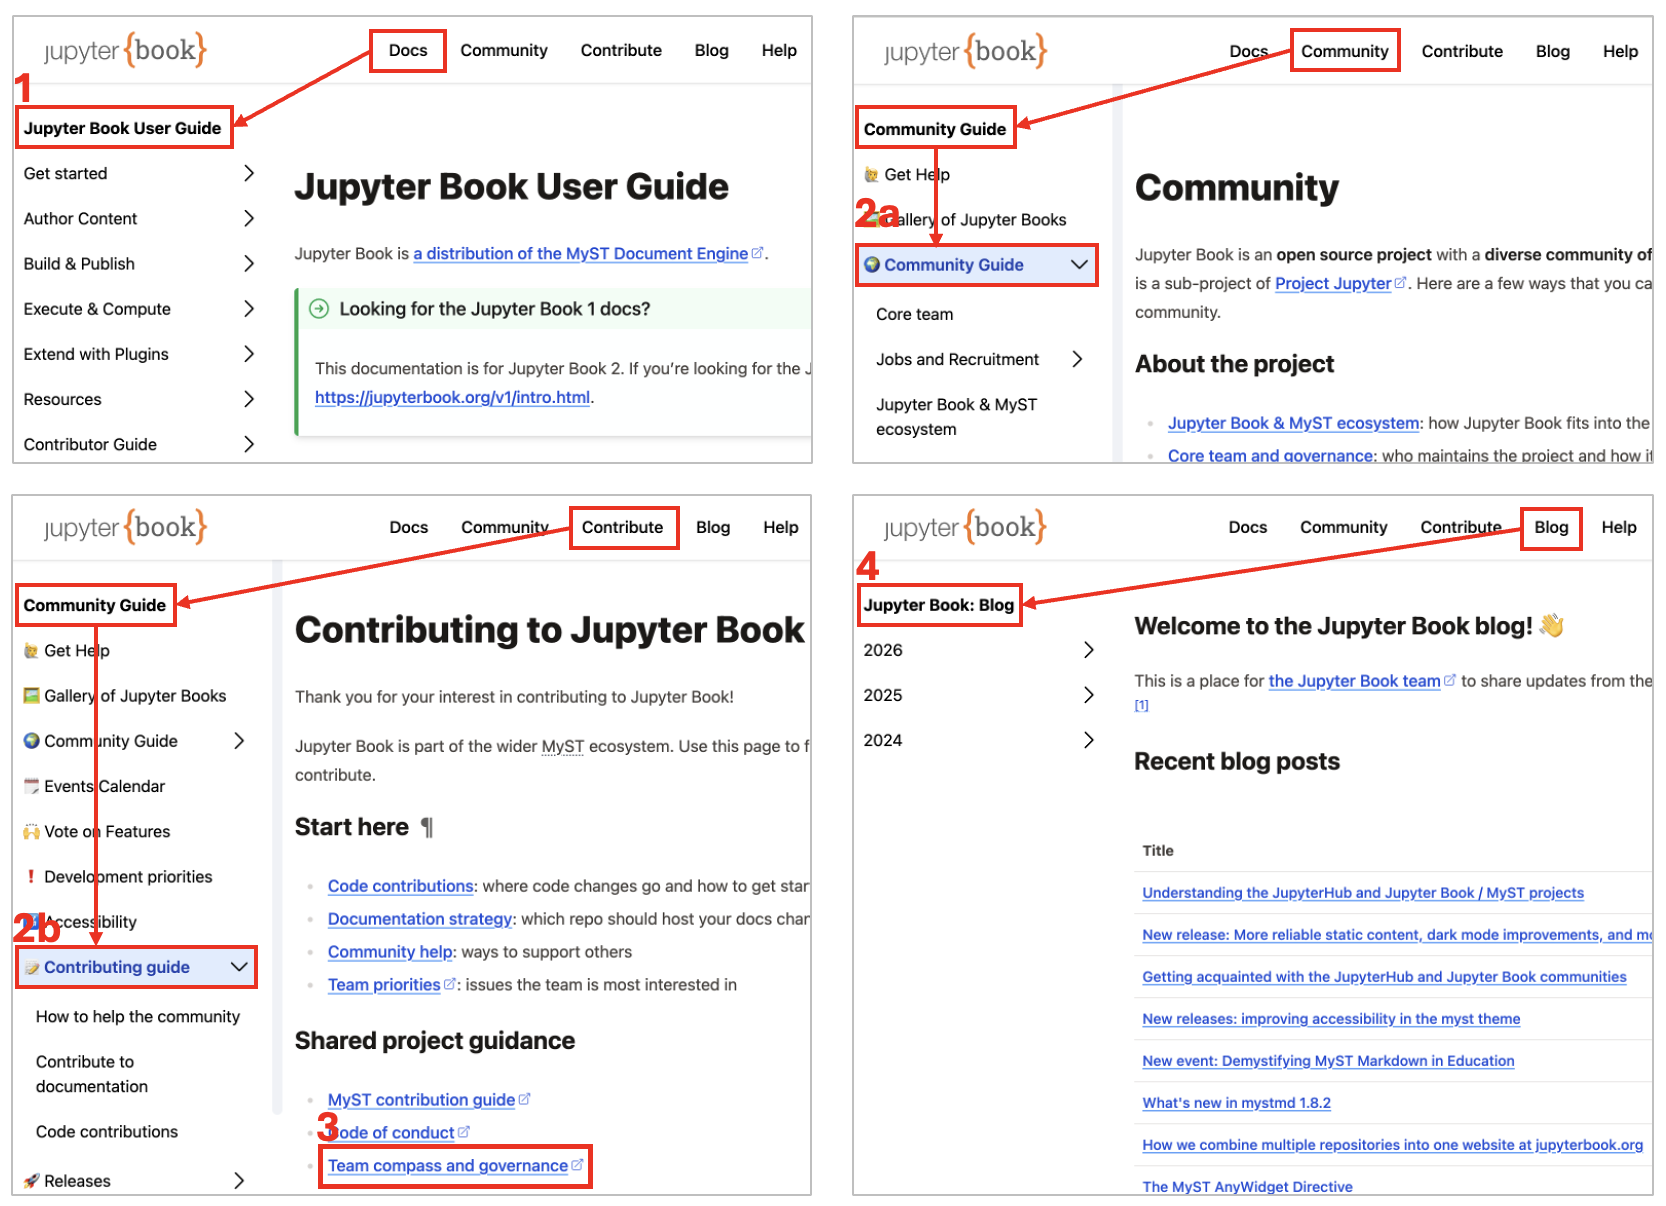
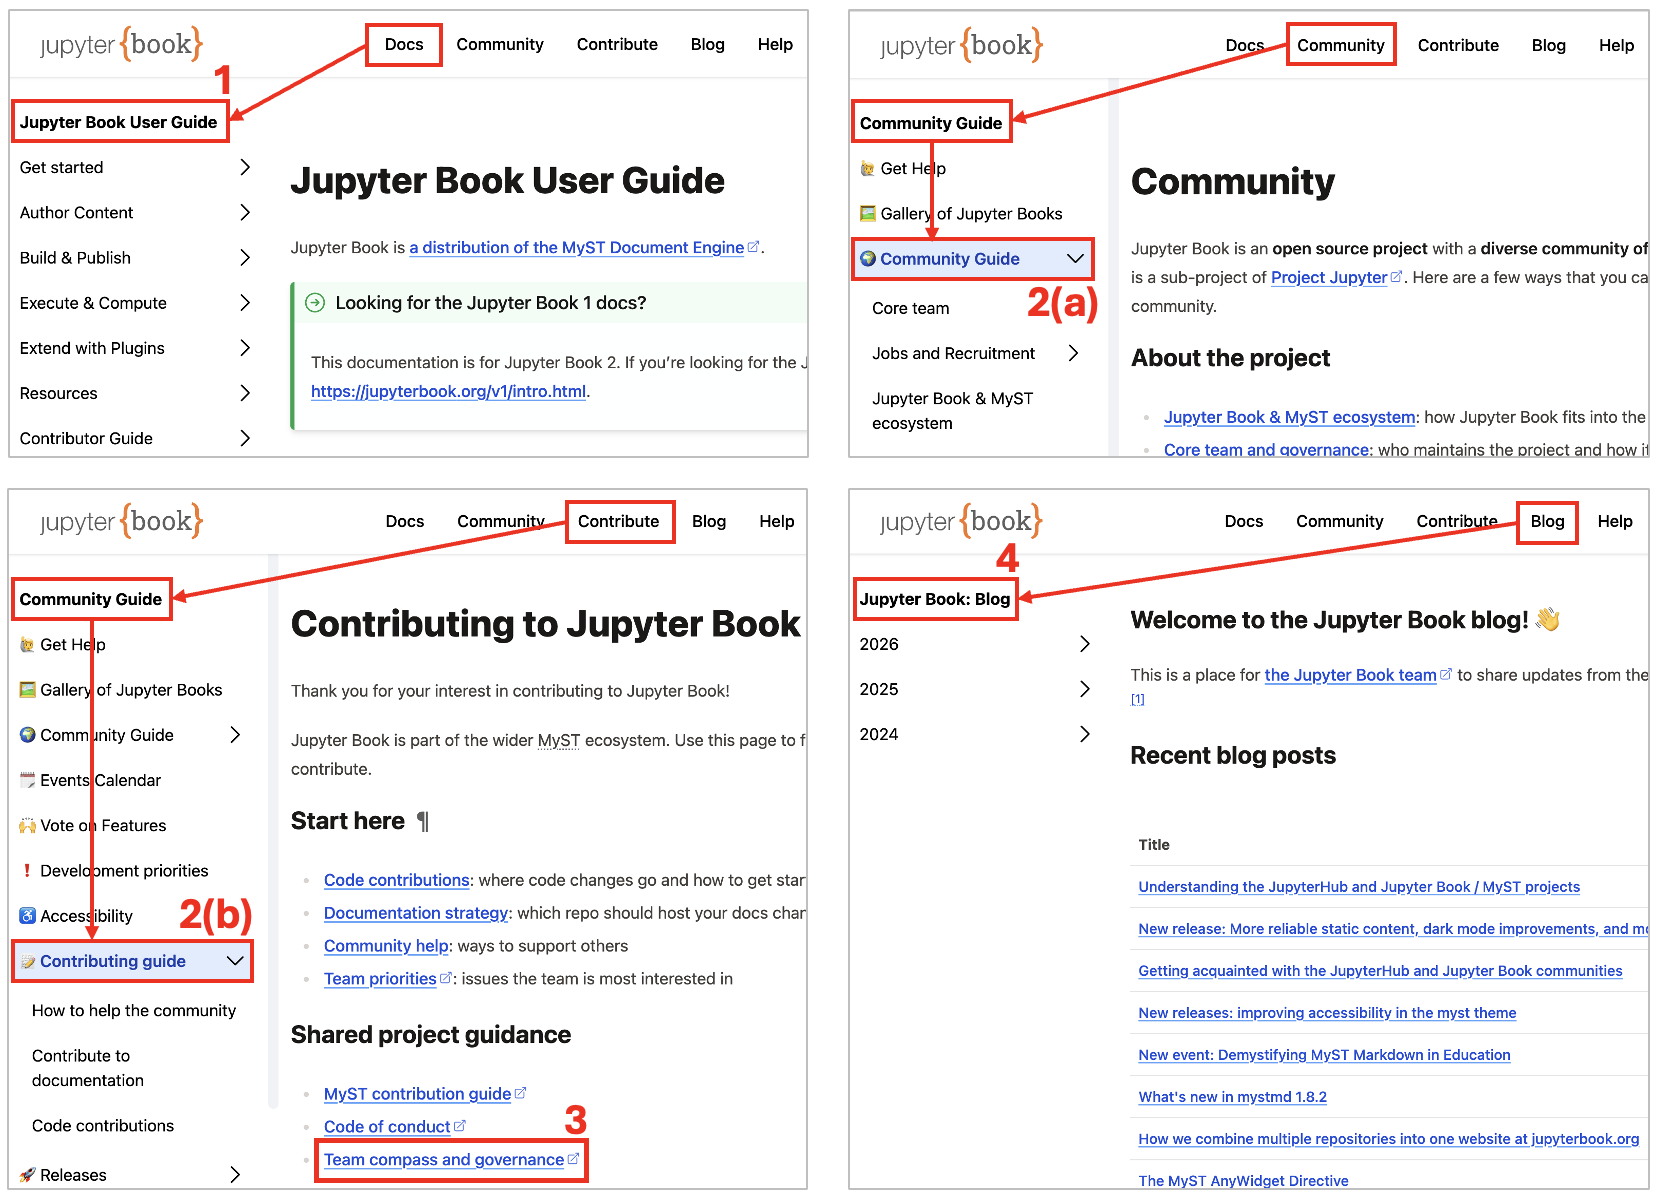
Improvements after @choldgraf's review

diff --git a/docs/posts/2026/03-cm-jb-myst-docs.md b/docs/posts/2026/03-cm-jb-myst-docs.md
@@ -8,15 +8,14 @@ date: 2026-08-31
 license: CC-BY-4.0
 ---
 
-This month, I share some of the work I have been doing to better understand the documentation of Jupyter Book/MyST, where it is hosted on GitHub, and how it can be accessed on the projects' websites — I am doing similar work for the JupyterHub organization, and I will share that content in my next posts.
-
-Among my other activities this month, I joined the Jupyter Community Building Working Group and started working on three events that will take place this fall.
+This month, I share some of the work I have been doing to better understand the  Jupyter Book/MyST documentation, where it is hosted on GitHub, and how it can be accessed through the projects' websites. 
+I also focused on a few other areas of work, including joining the Jupyter Community Building Working Group and starting prepare three events that will take place this fall.
 
 
 ## GitHub repositories and websites hosting Jupyter Book/MyST documentation
 
-There are several repositories in the [Jupyter Book GitHub organization](https://github.com/jupyter-book) whose content converges into the two websites [jupyterbook.org](https://jupyterbook.org/) and [mystmd.org](https://mystmd.org/). 
-(I talked about the differences between Jupyter Book and MyST in my [previous post](./02-cm-understanding-projects)). 
+There are several repositories in the [`Jupyter Book GitHub organization`](https://github.com/jupyter-book) whose content converges into the two websites [jupyterbook.org](https://jupyterbook.org/) and [mystmd.org](https://mystmd.org/). 
+(I talked about the differences between Jupyter Book and MyST in my [previous post](./02-cm-understanding-projects.md)). 
 
 For an overview of the content of each website and where it is located, I created a [Mermaid](https://mermaid.ai/open-source/intro/) diagram showing how the GitHub repositories map to the different sections of the websites and highlighting the intended audience.
 I also created figures illustrating how these sections can be accessed through the websites' navigation.
@@ -27,27 +26,52 @@ Here they are!
 
 The documentation published on [jupyterbook.org](https://jupyterbook.org/) is distributed across four **repositories**, each corresponding to a **different section of the website**.  
 
+
+```mermaid
+flowchart LR;
+    
+    subgraph container [" "]
+        direction LR
+        legend("**Legend:**")
+        gh_org("🏠 GitHub organization")
+        gh_repo("📁 GitHub repository")
+        website("🌐 Website")
+        website_sec("📄 Website section")
+    end
+
+    legend~~~ gh_org ~~~ gh_repo ~~~ website ~~~ website_sec
+    
+    classDef transparent_title fill:none,stroke:none
+        class container transparent_title
+    classDef transparent_block_large_font fill:#ffffff,stroke:none,font-size: 14px
+        class legend, transparent_block_large_font
+    classDef transparent_block fill:#ffffff,stroke:none,font-size: 12px
+        class ,gh_org,gh_repo,website,website_sec transparent_block
+```
+
 ```mermaid
 flowchart TD;
     
     %% organization
-    JB("🐙 Jupyter Book")
+    JB("🏠 Jupyter Book")
 
     %% repos
-    JB_main("🐙 1. jupyter-book/docs")
-    JB_org_repo("🐙 2. jupyterbook.org/docs<br>a./community<br>b./contribute")
-    JB_blog_repo("🐙 3. blog/docs")
-    JB_tc_repo("🐙 4. team-compass")
+    JB_main("📁 1. jupyter-book/docs")
+    JB_org_repo("📁 2. jupyterbook.org/docs<br>(a) community<br>(b) contribute")
+    JB_blog_repo("📁 3. blog/docs")
+    JB_tc_repo("📁 4. team-compass")
 
     %% websites
     JB_org_ws("🌐 jupyterbook.org")
 
     %% sections
-    JB_UG("🌐 1. Jupyter Book<br>User Guide")
-    JB_CommG("🌐 2a. Community Guide")
-    JB_ContG("🌐 2b. Contributing Guide")
-    JB_tc("🌐 3. Team Compass")
-    JB_blog("🌐 4. Blog")
+    JB_UG("📄 1. Jupyter Book<br>User Guide")
+    JB_CommG("📄 2(a) Community Guide")
+    JB_ContG("📄 2(b) Contributing Guide")
+    JB_tc("📄 3. Team Compass")
+    JB_blog("📄 4. Blog")
+
+    
           
     %% links organization-to-repo
     JB-->JB_main
@@ -81,8 +105,8 @@ flowchart TD;
         class JB_CommG,JB_blog green
     classDef blue fill:#dae8fc,stroke:#6c8ebf,stroke-width:2px // blue
         class JB_ContG,JB_tc blue
-
 ```
+
 
 *Diagram 1: GitHub repositories and corresponding sections in jupyterbook.org.
 First layer (top): Jupyter Book GitHub organization (orange). 
@@ -103,12 +127,14 @@ The numbers correspond to the GitHub repositories in the diagram above.*
 
 As it can be deduced by the diagram and figure above, GitHub repositories, website sections, and their access from the navigation bar are related as follows:
 
-- [jupyter-book/docs](https://github.com/jupyter-book/jupyter-book/tree/main/docs) contains the documentation that is rendered in [Jupyter Book User Guide](https://jupyterbook.org/stable), which can be accessed on the website by clicking *Docs* in the navigation bar. 
-- [jupyterbook.org/docs/](https://github.com/jupyter-book/jupyterbook.org/tree/main/docs/) contains the website's community and contribution documentation.
-Specifically, the content in [docs/community](https://github.com/jupyter-book/jupyterbook.org/tree/main/docs/community) is rendered in the [Community Guide](https://jupyterbook.org/community/), which can be accessed by clicking *Community* in the navigation bar.
-The documentation in [docs/contribute](https://github.com/jupyter-book/jupyterbook.org/tree/main/docs/contribute) is rendered in the [Contributing Guide](https://jupyterbook.org/contribute/), which can be accessed by clicking *Contribute* in the navigation bar.
-- [team-compass](https://github.com/jupyter-book/team-compass) contains [The Jupyter Book Team Compass](https://jupyterbook.org/compass/) and can be accessed from *Team compass and governance* in the main page of the [Contributing Guide](https://jupyterbook.org/contribute/)
-- [blog/docs](https://github.com/jupyter-book/blog/tree/main/docs) contains the content of the [Jupyter Book Blog](https://jupyterbook.org/blog), which can be accessed by clicking *Blog* in the navigation bar.
+- [`jupyter-book/docs`](https://github.com/jupyter-book/jupyter-book/tree/main/docs) contains the documentation that is rendered in [Jupyter Book User Guide](https://jupyterbook.org/stable), which can be accessed on the website by clicking *Docs* in the navigation bar. 
+- [`jupyterbook.org/docs/`](https://github.com/jupyter-book/jupyterbook.org/tree/main/docs/) contains the website's community and contribution documentation.
+Specifically, the content in [`docs/community`](https://github.com/jupyter-book/jupyterbook.org/tree/main/docs/community) is rendered in the [Community Guide](https://jupyterbook.org/community/), which can be accessed by clicking *Community* in the navigation bar.
+The documentation in [`docs/contribute`](https://github.com/jupyter-book/jupyterbook.org/tree/main/docs/contribute) is rendered in the [Contributing Guide](https://jupyterbook.org/contribute/), which can be accessed by clicking *Contribute* in the navigation bar.
+- [`team-compass`](https://github.com/jupyter-book/team-compass) contains [The Jupyter Book Team Compass](https://jupyterbook.org/compass/) and can be accessed from *Team compass and governance* in the main page of the [Contributing Guide](https://jupyterbook.org/contribute/)
+- [`blog/docs`](https://github.com/jupyter-book/blog/tree/main/docs) contains the content of the [Jupyter Book Blog](https://jupyterbook.org/blog), which can be accessed by clicking *Blog* in the navigation bar.
+
+To learn more about how content from different repositories comes together on a single website, have a look at Chris Holdgraf's blog post [How we combine multiple repositories into one website at jupyterbook.org](./multi-repo.md)
 
 
 ### Repositories and content for [mystmd.org](https://mystmd.org/)
@@ -116,25 +142,48 @@ The documentation in [docs/contribute](https://github.com/jupyter-book/jupyterbo
 The documentation available on [mystmd.org](https://mystmd.org/) is spread across four **repositories**, each contributing content to a **specific section of the website**.
 
 ```mermaid
+flowchart LR;
+    
+    subgraph container [" "]
+        direction LR
+        legend("**Legend:**")
+        gh_org("🏠 GitHub organization")
+        gh_repo("📁 GitHub repository")
+        website("🌐 Website")
+        website_sec("📄 Website section")
+    end
+
+    legend~~~ gh_org ~~~ gh_repo ~~~ website ~~~ website_sec
+    
+    classDef transparent_title fill:none,stroke:none
+        class container transparent_title
+    classDef transparent_block_large_font fill:#ffffff,stroke:none,font-size: 14px
+        class legend, transparent_block_large_font
+    classDef transparent_block fill:#ffffff,stroke:none,font-size: 12px
+        class ,gh_org,gh_repo,website,website_sec transparent_block
+```
+
+```mermaid
 flowchart TD;
     
     %% organization
-    JB("🐙 Jupyter Book")
+    JB("🏠 Jupyter Book")
 
     %% repos
-    myst_main_repo("🐙 1. mystmd/docs")
-    myst_org_repo("🐙 2. mystmd.org/content")
-    myst_tran_repo("🐙 3. mystmd/packages<br>3a.jtex/docs<br>3b./myst-transforms/docs")
-    myst_specs_repo("🐙 4. myst-spec/docs")
+    myst_main_repo("📁 1. mystmd/docs")
+    myst_org_repo("📁 2. mystmd.org/content")
+    myst_tran_repo("📁 3. mystmd/packages/<br>3(a). jtex/docs<br>3(b). myst-transforms/docs")
+    myst_specs_repo("📁 4. myst-spec/docs")
     
     %% websites
     myst_org_ws("🌐 mystmd.org")
 
     %% sections
-    myst_main("🌐 1. MyST Markdown")
-    myst_org("🌐 2a.Projects & Ecosystem Overview<br>2b.MyST Gallery")
-    myst_tran("🌐 3. MyST Transforms")
-    myst_specs("🌐 4. MyST Specification")
+    myst_main("📄 1. MyST Markdown")
+    myst_org("📄 2(a). Projects & Ecosystem Overview<br>2(b). MyST Gallery")
+    myst_jtex("📄 3(a). JTeX")
+    myst_tran("📄 3(b). MyST Transforms")
+    myst_specs("📄 4. MyST Specification")
         
     %% links organization-to-repo
     JB-->myst_main_repo
@@ -151,6 +200,7 @@ flowchart TD;
     %%links website-to-section
     myst_org_ws-->myst_main
     myst_org_ws-->myst_org
+    myst_org_ws-->myst_jtex
     myst_org_ws-->myst_tran
     myst_org_ws-->myst_specs
      
@@ -166,7 +216,7 @@ flowchart TD;
     classDef green fill:#d5f5d5,stroke:#2e8b57,stroke-width:2px // green
         class myst_org,myst_main green
     classDef blue fill:#dae8fc,stroke:#6c8ebf,stroke-width:2px // blue
-        class myst_theme,myst_tran,myst_specs blue
+        class myst_theme,myst_jtex,myst_tran,myst_specs blue
 ```
 
 *Figure: 
@@ -186,11 +236,13 @@ The numbers correspond to the GitHub repositories in the diagram above.*
 
 GitHub repositories, website sections, and their access points in the navigation bar are related as follows:
 
-- [mystmd/docs](https://github.com/jupyter-book/mystmd/tree/main/docs) contains the documentation that is rendered in [MyST Markdown](https://mystmd.org/guide), which can be accessed on the website by clicking *Guide* in the navigation bar. 
-- [mystmd.org](https://github.com/jupyter-book/mystmd.org) contains the website's landing page, as well as and the pages *Projects & Ecosystem Overview*, and *MyST Gallery*.
-- Within [mystmd/packages](https://github.com/jupyter-book/mystmd/tree/main/packages/), [jtex/docs](https://github.com/jupyter-book/mystmd/tree/main/packages/jtex/docs) contains the [JTEX](https://mystmd.org/jtex) documentation, while [myst-transforms](https://github.com/jupyter-book/mystmd/tree/main/packages/myst-transforms) contains the [MyST Transforms](https://mystmd.org/myst-transforms) documentation. 
+- [`mystmd/docs`](https://github.com/jupyter-book/mystmd/tree/main/docs) contains the documentation that is rendered in [MyST Markdown](https://mystmd.org/guide), which can be accessed on the website by clicking *Guide* in the navigation bar. 
+- [`mystmd.org`](https://github.com/jupyter-book/mystmd.org) contains the website's landing page, as well as and the pages *Projects & Ecosystem Overview*, and *MyST Gallery*.
+- Within [`mystmd/packages`](https://github.com/jupyter-book/mystmd/tree/main/packages/),
+[`jtex/doc`](https://github.com/jupyter-book/mystmd/tree/main/packages/jtex/docs) contains the [JTEX](https://mystmd.org/jtex) documentation,
+while [`myst-transforms`](https://github.com/jupyter-book/mystmd/tree/main/packages/myst-transforms) contains the [MyST Transforms](https://mystmd.org/myst-transforms) documentation. 
 Bot can be accessed from the *Project* drop-down menu in the navigation bar.
-- [myst-spec/docs](https://github.com/jupyter-book/myst-spec) contains the documentation that is rendered in [MyST Specification](https://mystmd.org/spec)
+- [`myst-spec/docs`](https://github.com/jupyter-book/myst-spec) contains the documentation that is rendered in [MyST Specification](https://mystmd.org/spec)
 
 
 ### Some considerations
